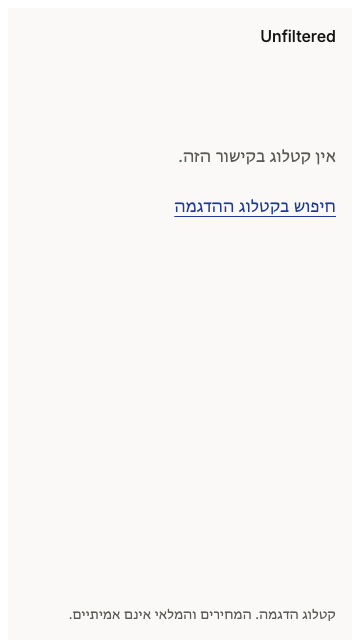
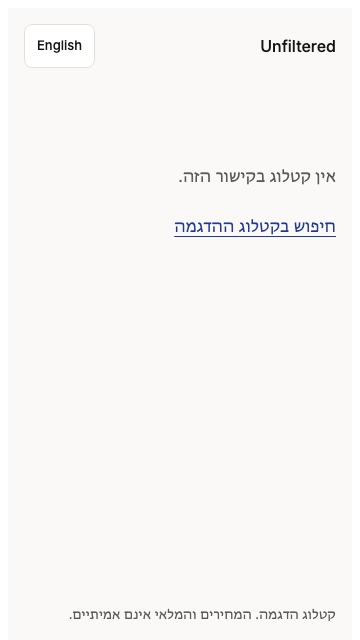
YOY-94: fix round 1 — the 404 page resolves its language server-side
The ErrorBoundary derived the chrome language from `document`, which is
undefined on the server: SSR rendered the English sentence inside
<html lang="he" dir="rtl">, and the client then hydrated to Hebrew — a React
text mismatch plus the visible English→Hebrew flip that resolving the
language server-side exists to prevent. A visitor whose only Hebrew signal
was Accept-Language never got Hebrew there at all.

It now reads the language the ROOT loader already resolved for this request
(useRouteLoaderData("root")), the same value that stamped <html lang dir>, so
server and client render the same words. The 404 header also regains the
language toggle, so it is the same shell as / and a reader who landed in the
wrong language can still switch.

Both guards verified to fail with the fix reverted.

Claude-Session: https://claude.ai/code/session_01CEfDzcznHJVCrNgeAQHa8h

diff --git a/apps/shopify-app/app/routes/s.$slug.tsx b/apps/shopify-app/app/routes/s.$slug.tsx
@@ -1,9 +1,16 @@
 import type { LoaderFunctionArgs, MetaFunction } from "react-router";
-import { isRouteErrorResponse, useLoaderData, useRouteError } from "react-router";
+import {
+  isRouteErrorResponse,
+  useLocation,
+  useLoaderData,
+  useRouteError,
+  useRouteLoaderData,
+} from "react-router";
 
 import db from "../db.server";
 import { PlaygroundPage } from "../playground/PlaygroundPage";
 import { CatalogNotFound } from "../playground/components/CatalogNotFound";
+import { LanguageToggle } from "../playground/components/LanguageToggle";
 import {
   fixtureCatalog,
   playgroundFixturesEnabled,
@@ -109,24 +116,40 @@ export default function StorePreloadRoute() {
 }
 
 /**
- * Unknown slug. The chrome language is not available here — the loader threw
- * before resolving it — so this reads it from the URL alone, which is the
- * part of the request an error page can still trust.
+ * Unknown slug. This route's own loader threw, so its data is gone — but the
+ * ROOT loader already resolved the chrome language for this request (it runs
+ * for every playground path, `?lang=` then `Accept-Language`), and that is
+ * what stamped `<html lang dir>`. Reading it from there keeps the server and
+ * the client rendering the same words: deriving the language from
+ * `document` instead would render English on the server inside an
+ * `<html lang="he">`, then flip to Hebrew on hydration — the first-frame
+ * flicker YOY-92 resolved the language server-side to avoid — and would
+ * never honour `Accept-Language` at all.
  */
 export function ErrorBoundary() {
   const error = useRouteError();
-  const locale: PlaygroundLocale =
-    typeof document !== "undefined" &&
-    new URLSearchParams(document.location.search).get("lang") === "he"
-      ? "he"
-      : "en";
+  const location = useLocation();
+  const root = useRouteLoaderData("root") as
+    | { lang: string; dir: string }
+    | undefined;
+  const locale: PlaygroundLocale = root?.lang === "he" ? "he" : "en";
   const strings = getPlaygroundStrings(locale);
 
   if (isRouteErrorResponse(error) && error.status === 404) {
     return (
       <div className="playground">
+        {/* The same shell as `/` (AC-1), language toggle included: a reader
+            who landed here in the wrong language must still be able to
+            switch, and a shorter header would not be the same shell. */}
         <header className="header shell">
           <span className="productName">{strings.productName}</span>
+          <LanguageToggle
+            locale={locale}
+            strings={strings}
+            pathname={location.pathname}
+            query=""
+            detailsOpen={false}
+          />
         </header>
         <main className="main shell">
           <CatalogNotFound strings={strings} />

diff --git a/apps/shopify-app/app/playground/test-ui/store-preload.spec.ts b/apps/shopify-app/app/playground/test-ui/store-preload.spec.ts
@@ -136,6 +136,58 @@ test.describe("an unknown slug (AC-1, verify 3)", () => {
     );
   });
 
+  test("renders its language server-side, with no hydration flip (AC-3)", async ({
+    page,
+  }) => {
+    // Regression: the boundary read the language from `document`, so the
+    // server rendered English inside <html lang="he"> and the client
+    // hydrated to Hebrew — a text mismatch and a visible flip, which is the
+    // exact first-frame flicker resolving the language server-side prevents.
+    const ssr = await (await page.request.get("/s/nope?lang=he")).text();
+    expect(ssr).toContain(strings("he").catalogNotFound);
+    expect(ssr).not.toContain(strings("en").catalogNotFound);
+
+    const errors: string[] = [];
+    page.on("console", (message) => {
+      if (message.type() === "error") {
+        errors.push(message.text());
+      }
+    });
+    await page.goto("/s/nope?lang=he");
+    await expect(
+      page.getByText(strings("he").catalogNotFound),
+    ).toBeVisible();
+    expect(errors.filter((text) => /hydrat/i.test(text))).toEqual([]);
+  });
+
+  test("honours Accept-Language, not just ?lang= (AC-3)", async ({
+    browser,
+  }) => {
+    // The boundary ignored the header entirely, so a Hebrew reader whose
+    // only signal is Accept-Language never saw Hebrew on this page.
+    const context = await browser.newContext({ locale: "he-IL" });
+    const hebrew = await context.newPage();
+    await hebrew.goto("/s/nope");
+
+    await expect(hebrew.locator("html")).toHaveAttribute("lang", "he");
+    await expect(
+      hebrew.getByText(strings("he").catalogNotFound),
+    ).toBeVisible();
+    await context.close();
+  });
+
+  test("keeps the same shell, language toggle included (AC-1)", async ({
+    page,
+  }) => {
+    await page.goto("/s/nope?lang=he");
+
+    const toggle = page.getByTestId("playground-language-toggle");
+    await expect(toggle).toBeVisible();
+    const href = await toggle.getAttribute("href");
+    expect(href).toContain("/s/nope");
+    expect(href).toContain("lang=en");
+  });
+
   test("the link goes back to the seed playground", async ({ page }) => {
     await page.goto("/s/nope");
     await page.locator('a[href="/"]').click();

diff --git a/docs/REPO-MAP.md b/docs/REPO-MAP.md
@@ -671,7 +671,7 @@ vitest.setup.ts
 - apps/shopify-app/app/routes/auth.login/route.tsx → apps/shopify-app/app/routes/auth.login/error.server.tsx, apps/shopify-app/app/shopify.server.ts
 - apps/shopify-app/app/routes/healthz.test.ts → apps/shopify-app/app/routes/healthz.tsx
 - apps/shopify-app/app/routes/internal.costs.tsx → apps/shopify-app/app/ai/cost-aggregates.server.ts, apps/shopify-app/app/db.server.ts
-- apps/shopify-app/app/routes/s.$slug.tsx → apps/shopify-app/app/db.server.ts, apps/shopify-app/app/playground/PlaygroundPage.tsx, apps/shopify-app/app/playground/components/CatalogNotFound.tsx, apps/shopify-app/app/playground/fixture-mode.server.ts, apps/shopify-app/app/playground/playground.css (unresolved), apps/shopify-app/app/playground/strings.ts, apps/shopify-app/app/playground/tokens.css (unresolved)
+- apps/shopify-app/app/routes/s.$slug.tsx → apps/shopify-app/app/db.server.ts, apps/shopify-app/app/playground/PlaygroundPage.tsx, apps/shopify-app/app/playground/components/CatalogNotFound.tsx, apps/shopify-app/app/playground/components/LanguageToggle.tsx, apps/shopify-app/app/playground/fixture-mode.server.ts, apps/shopify-app/app/playground/playground.css (unresolved), apps/shopify-app/app/playground/strings.ts, apps/shopify-app/app/playground/tokens.css (unresolved)
 - apps/shopify-app/app/routes/webhooks.app.scopes_update.tsx → apps/shopify-app/app/db.server.ts, apps/shopify-app/app/shopify.server.ts
 - apps/shopify-app/app/routes/webhooks.app.uninstalled.tsx → apps/shopify-app/app/db.server.ts, apps/shopify-app/app/shopify.server.ts
 - apps/shopify-app/app/routes/webhooks.customers.data_request.tsx → apps/shopify-app/app/shopify.server.ts
